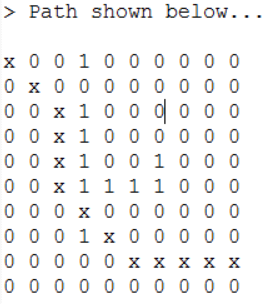
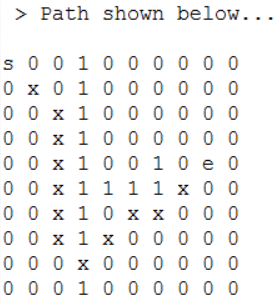
Added code to color Shortest Path

diff --git a/A-star.cpp b/A-star.cpp
@@ -7,10 +7,16 @@ using namespace std;
 int d1[8] = {1,1,1,-1,-1,-1,0,0};
 int d2[8] = {1,0,-1,1,0,-1,1,-1};
 
+struct Node;
 char Graph[100][100];
 int m, n;              // dimensions
 int startX, startY;
 int targetX, targetY;
+bool ClosedList [100][100];
+bool inOpenList [100][100];
+
+
+vector< vector <Node> > Parent;
 
 struct Node{
 
@@ -59,7 +65,7 @@ bool FOUND = 0;
 
 void Astar(Node start, Node target){
 
-    vector<Node> OpenList, ClosedList;
+    vector<Node> OpenList;
 
     OpenList.push_back(start);
 
@@ -79,10 +85,9 @@ void Astar(Node start, Node target){
 
         /* Remove currentNode and add it to ClosedList */
         OpenList.erase( OpenList.begin() + finalIndex );
-        ClosedList.push_back(currNode);
 
-       /*  Mark in graph */
-        Graph[currNode.x][currNode.y] = 'x';
+        ClosedList[currNode.x][currNode.y] = true;
+        inOpenList[currNode.x][currNode.y] = true;
 
         /* Check if found the target */
         if( currNode == target ){
@@ -100,20 +105,22 @@ void Astar(Node start, Node target){
             // check if valid
             if(nX < 0 || nY < 0 || nX >= n || nY >= m || Graph[nX][nY] == '1' )
                 continue;
+
             Node nextNode(nX,nY); // neighbor
             Neighbors.push_back(nextNode);
+
+            // IMPORTANT CHECK
+            if(Parent[nX][nY] == nextNode )
+                Parent[nX][nY] = currNode;
         }
 
         for( Node& someNode : Neighbors ){
 
             bool ok = 1;
             //  Ignore if in the ClosedList
-            for ( Node& closedNode : ClosedList){
-                if( closedNode == someNode ){
-                    ok=0;
-                    break;
-                }
-            }
+
+            if(ClosedList[someNode.x][someNode.y])continue;
+
             if(!ok)continue;
             // Calculate G,H,F
             someNode.G = currNode.G + 1;
@@ -121,27 +128,32 @@ void Astar(Node start, Node target){
             someNode.F = someNode.G + someNode.H;
 
             // Check if already in the OpenList
-            bool InOpenList = 0;
+            bool noAdd = 0;
             for( Node& openNode : OpenList ){
 
                 // not worthed adding to OpenList
                 if( openNode == someNode && openNode.G < someNode.G ){
-                    InOpenList = 1;
+                    noAdd = 1;
                     break;
                 }
             }
-            if( !InOpenList )
+            if( !noAdd )
                 OpenList.push_back(someNode);
         }
     }
 }
 
+void colorShortest(Node current, Node start){
+    Graph[current.x][current.y] = 'x';
 
+    if(current == start) return ;
+    else colorShortest( Parent[current.x][current.y] , start);
+}
 
 int main() {
 
-    // freopen("input.txt","r",stdin);
-
+    freopen("input.txt","r",stdin);
+    freopen("output.txt","w",stdout);
     cin >> n >> m;
 
     cin >> startX >> startY;
@@ -154,19 +166,30 @@ int main() {
     Node start(startX, startY);
     Node target(targetX, targetY);
 
+    for(int i=0;i<n;i++){
+        vector<Node> toAdd;
+        for( int j=0;j<m;j++){
+                toAdd.push_back(Node(i,j));
+        }
+        Parent.push_back(toAdd);
+    }
     /* Call the function here. */
     Astar(start,target);
 
-    if(!FOUND){
-        cout<< " > Path doesn't exist!\n";
+    if( !FOUND ){
+        cout << " > Path doesn't exist!\n";
         return 0;
     }
 
+    colorShortest(target,start);
+
     cout<<"\n\n > Path shown below...\n\n";
+
     Graph[start.x][start.y] = 's';
     Graph[target.x][target.y] = 'e';
+
     for(int i = 0 ; i < n ; i++ ){
-        for(int j = 0; j < m; j++ ){
+        for(int j = 0; j < m ; j++ ){
             cout << Graph[i][j] << " ";
         }
         cout << endl;
